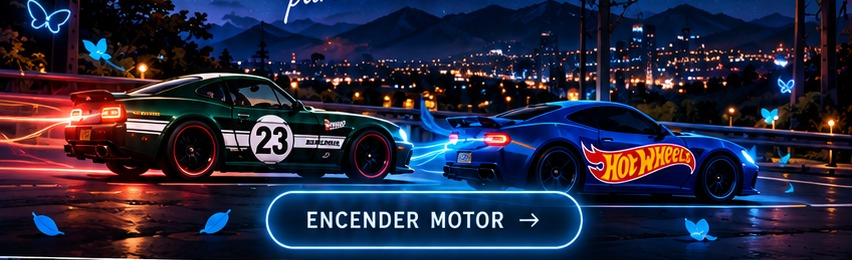
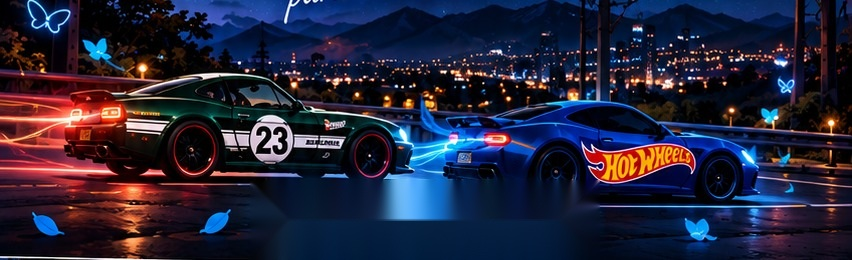
Add files via upload

Changed region(s): [[0.2746, 0.6769, 0.7019, 0.9846]]

diff --git a/index.html b/index.html
@@ -1,34 +1,195 @@
 <!doctype html>
 <html lang="es">
 <head>
-<meta charset="utf-8"><meta name="viewport" content="width=device-width,initial-scale=1,viewport-fit=cover">
-<meta name="theme-color" content="#06101d"><title>30 de septiembre · Hot Wheels</title>
+<meta charset="utf-8">
+<meta name="viewport" content="width=device-width,initial-scale=1,viewport-fit=cover">
+<meta name="theme-color" content="#030a12">
+<title>30 de septiembre · Hot Wheels</title>
 <style>
-:root{--bg:#030a12;--cyan:#6bdcff;--blue:#0c3352;--text:#f5fbff;--muted:#c0d0de;--gold:#d7b45d}
-*{box-sizing:border-box}html{scroll-behavior:smooth}body{margin:0;background:var(--bg);color:var(--text);font-family:Georgia,"Times New Roman",serif;overflow-x:hidden}.scene{min-height:100svh;position:relative;display:grid;place-items:center;overflow:hidden;background:#06101d}.scene-bg{position:absolute;inset:0;width:100%;height:100%;object-fit:cover;object-position:center;filter:saturate(1.05) contrast(1.04)}.shade{position:absolute;inset:0;background:linear-gradient(180deg,#02071055 0%,#02071015 45%,#020710b8 100%)}.content{position:relative;z-index:2;width:min(760px,92%);text-align:center;padding:28px 0}.tag{font:700 .72rem Arial,sans-serif;letter-spacing:.25em;text-transform:uppercase;color:#8ddaff}.title{font-size:clamp(2.5rem,10vw,5.2rem);font-weight:400;line-height:1;margin:15px 0}.copy{font-size:1.08rem;line-height:1.7;color:var(--muted);max-width:570px;margin:0 auto 26px}.btn{border:1px solid #76d8ff;background:#0b3657dd;color:#fff;border-radius:999px;padding:14px 24px;min-height:50px;cursor:pointer;font:inherit;box-shadow:0 0 24px #38caff33;transition:.25s}.btn:hover{transform:translateY(-2px);background:#105079}.scrollhint{margin-top:15px;color:#7fc9eb;font:600 .72rem Arial;letter-spacing:.12em}.scene-nav{position:absolute;z-index:4;bottom:22px;left:50%;transform:translateX(-50%);display:flex;gap:8px}.dot{width:8px;height:8px;border-radius:50%;background:#ffffff55}.dot.active{background:#72dfff;box-shadow:0 0 12px #72dfff}
-#hero .content{align-self:start;margin-top:10vh}.hero-cue{margin-top:22vh}.road-glow{position:absolute;bottom:8%;left:50%;width:70%;height:25%;transform:translateX(-50%);background:radial-gradient(ellipse,#55dfff2a,transparent 70%);pointer-events:none}.km .content{width:min(520px,90%);margin-left:auto;margin-right:4%;text-align:left}.km .copy{margin-left:0}.km-card{display:inline-block;background:#061322c9;border-left:3px solid var(--cyan);padding:12px 18px;border-radius:4px}.km-card strong{font:800 1.1rem Arial}.km-card span{display:block;font:700 .7rem Arial;letter-spacing:.18em;color:#8edcff;margin-top:4px}.km .btn{margin-top:5px}.station .content{max-width:600px}.station-card{background:#04111dcc;border:1px solid #73d8ff44;border-radius:26px;padding:30px 22px;backdrop-filter:blur(5px)}
-#gift{background:radial-gradient(circle at 50% 45%,#123d5d,#030a12 65%)}.gift-layout{display:grid;grid-template-columns:1fr 1fr;gap:20px;align-items:center;text-align:left}.trunk{position:relative;min-height:300px;border-radius:25px;background:linear-gradient(145deg,#06101a,#102a3c);border:1px solid #7cdfff33;overflow:hidden;box-shadow:0 25px 70px #0009}.trunk:before{content:"";position:absolute;inset:0;background:linear-gradient(120deg,transparent 20%,#7adfff12 50%,transparent 80%)}.trunk-label{position:absolute;top:22px;left:22px;font:700 .7rem Arial;letter-spacing:.2em;color:#8edcff}.bouquet{position:absolute;right:0;bottom:0;width:90%;height:72%;object-fit:cover;object-position:left center;mix-blend-mode:screen;opacity:.95}.package-wrap{text-align:center;background:#07121eaa;border:1px solid #ffffff1f;border-radius:25px;padding:18px;box-shadow:0 25px 70px #0008}.package{width:min(100%,330px);display:block;margin:auto;border-radius:8px;box-shadow:0 20px 45px #0009;transition:.8s;transform:scale(.88);opacity:.55}.package.reveal{transform:scale(1);opacity:1}.reveal-text{min-height:28px;color:#a9dfff;margin:12px 0;font-size:.95rem}.model{margin-top:18px;text-align:center}.model h2{font-size:clamp(2rem,8vw,3.6rem);font-weight:400;margin:8px 0}.model p{color:var(--muted);line-height:1.6}.hidden{display:none}.show{display:block;animation:rise .7s ease both}
-#final .content{max-width:700px}.final-title{font-size:clamp(2.4rem,10vw,4.7rem);font-weight:400;line-height:1}.final-car{font-size:5rem;margin:20px 0}.signature{font-style:italic;color:#8ddaff}.restart{margin-top:20px}
-@keyframes rise{from{opacity:0;transform:translateY(20px)}to{opacity:1;transform:none}}@media(max-width:700px){.scene{min-height:100svh}.km .content{margin:0 auto;text-align:center}.km .copy{margin-left:auto}.gift-layout{grid-template-columns:1fr}.trunk{min-height:260px}.package-wrap{padding:12px}.scene-bg{object-position:center}.hero-cue{margin-top:15vh}}
-@media(prefers-reduced-motion:reduce){*{scroll-behavior:auto!important;animation:none!important;transition:none!important}}
+:root{--bg:#030a12;--cyan:#6bdcff;--text:#f5fbff;--muted:#c0d0de;--blue:#0c3352}
+*{box-sizing:border-box}
+html{scroll-behavior:smooth}
+body{margin:0;background:var(--bg);color:var(--text);font-family:Georgia,"Times New Roman",serif;overflow-x:hidden}
+.scene{
+  min-height:100svh;position:relative;display:flex;flex-direction:column;
+  align-items:center;overflow:hidden;background:linear-gradient(#030a12,#061321)
+}
+.scene::before{
+  content:"";position:absolute;inset:0;
+  background:radial-gradient(circle at 50% 70%,#0e4460 0,transparent 48%);
+  opacity:.35;pointer-events:none
+}
+.scene-bg{
+  position:relative;z-index:1;display:block;width:100%;height:auto;
+  max-width:100%;object-fit:contain;object-position:center;
+  margin-top:auto;margin-bottom:0;flex:none;
+  filter:saturate(1.06) contrast(1.03)
+}
+.content{
+  position:relative;z-index:3;width:min(760px,92%);text-align:center;
+  padding:54px 0 24px;margin:auto 0 0
+}
+.top-content{margin:0;padding-top:9vh}
+.tag{font:700 .72rem Arial,sans-serif;letter-spacing:.25em;text-transform:uppercase;color:#8ddaff}
+.title{font-size:clamp(2.35rem,10vw,5rem);font-weight:400;line-height:1.03;margin:15px 0}
+.copy{font-size:1.06rem;line-height:1.7;color:var(--muted);max-width:570px;margin:0 auto 25px}
+.btn{
+ border:1px solid #76d8ff;background:#0b3657;color:#fff;border-radius:999px;
+ padding:14px 24px;min-height:50px;cursor:pointer;font:inherit;
+ box-shadow:0 0 24px #38caff33;transition:.25s
+}
+.btn:hover{transform:translateY(-2px);background:#105079}
+.scene-spacer{height:8vh;flex:none}
+#hero .scene-bg{margin-top:auto}
+#hero .content{margin-top:0}
+.km .content{padding-top:7vh}
+.km-card{display:inline-block;background:#061322e8;border-left:3px solid var(--cyan);padding:12px 18px;border-radius:4px}
+.km-card strong{font:800 1.05rem Arial}.km-card span{display:block;font:700 .68rem Arial;letter-spacing:.18em;color:#8edcff;margin-top:4px}
+.km .title{font-size:clamp(2.1rem,9vw,4.3rem)}
+.km .scene-bg{margin-top:auto}
+.station .content{padding-top:8vh}
+.station-card{background:#04111de8;border:1px solid #73d8ff44;border-radius:26px;padding:30px 22px;backdrop-filter:blur(5px)}
+.station .scene-bg{margin-top:auto}
+#gift{background:radial-gradient(circle at 50% 42%,#123d5d,#030a12 68%)}
+.gift-wrap{width:min(760px,94%);text-align:center;padding:8vh 0 7vh}
+.gift-layout{display:grid;grid-template-columns:1fr 1fr;gap:20px;align-items:center;margin-top:30px}
+.trunk{
+ position:relative;min-height:330px;border-radius:25px;background:linear-gradient(145deg,#06101a,#102a3c);
+ border:1px solid #7cdfff33;overflow:hidden;box-shadow:0 25px 70px #0009;padding:20px
+}
+.trunk-label{font:700 .7rem Arial;letter-spacing:.2em;color:#8edcff;text-align:left}
+.bouquet{
+ display:block;width:100%;height:auto;margin:15px auto 0;
+ border-radius:18px;box-shadow:0 15px 35px #0008
+}
+.package-wrap{
+ text-align:center;background:#07121eaa;border:1px solid #ffffff1f;border-radius:25px;
+ padding:18px;box-shadow:0 25px 70px #0008
+}
+.package{width:min(100%,330px);display:block;margin:auto;border-radius:8px;box-shadow:0 20px 45px #0009;transition:.7s;transform:scale(.94);opacity:.78}
+.package.reveal{transform:scale(1);opacity:1}
+.reveal-text{min-height:28px;color:#a9dfff;margin:12px 0;font-size:.95rem}
+.model{margin-top:28px;text-align:center}.model h2{font-size:clamp(2rem,8vw,3.6rem);font-weight:400;margin:8px 0}.model p{color:var(--muted);line-height:1.6}
+.hidden{display:none}.show{display:block;animation:rise .7s ease both}
+#final .content{padding-top:9vh}.final-title{font-size:clamp(2.4rem,10vw,4.7rem);font-weight:400;line-height:1.03}.final-car{font-size:5rem;margin:18px 0}.signature{font-style:italic;color:#8ddaff}
+.music-toggle{
+ position:fixed;right:14px;bottom:14px;z-index:999;min-height:44px;padding:10px 15px;
+ border:1px solid rgba(142,211,255,.65);border-radius:999px;background:rgba(5,22,38,.92);
+ color:#e6f6ff;font:600 14px Arial,sans-serif;box-shadow:0 8px 24px #0006;cursor:pointer
+}.music-toggle.playing{background:#15506f}
+@keyframes rise{from{opacity:0;transform:translateY(20px)}to{opacity:1;transform:none}}
+@media(max-width:700px){
+ .content{width:92%;padding-top:45px}
+ .top-content{padding-top:9vh}
+ .scene-bg{width:100%;height:auto}
+ .gift-layout{grid-template-columns:1fr}
+ .trunk{min-height:0}
+ .package-wrap{padding:14px}
+ .km .content,.station .content{padding-top:6vh}
+}
+@media(prefers-reduced-motion:reduce){*{scroll-behavior:auto!important;transition:none!important;animation:none!important}}
 </style>
-<style>
-.music-toggle{position:fixed;right:16px;bottom:16px;z-index:999;min-height:44px;padding:10px 15px;border:1px solid rgba(142,211,255,.65);border-radius:999px;background:rgba(5,22,38,.9);color:#e6f6ff;font:600 14px Arial,sans-serif;box-shadow:0 8px 24px rgba(0,0,0,.35);backdrop-filter:blur(8px);cursor:pointer}.music-toggle.playing{background:rgba(21,72,105,.95)}@media(max-width:500px){.music-toggle{right:12px;bottom:12px;font-size:13px}}
-</style></head>
+</head>
 <body>
-<button id="musicToggle" class="music-toggle" type="button" aria-label="Reproducir música">♪ Música</button>
+<button id="musicToggle" class="music-toggle" type="button">♪ Música</button>
 <audio id="bgMusic" preload="auto" loop><source src="as-it-was.mp3" type="audio/mpeg"></audio>
+
 <section class="scene" id="hero">
-<img class="scene-bg" src="hero.jpg" alt="Carretera nocturna con un Datsun 240Z verde y un auto azul"><div class="shade"></div><div class="road-glow"></div>
-<div class="content"><div class="tag">30 de septiembre</div><h1 class="title">¿Listo para dar una vuelta?</h1><p class="copy">Esta vez, el recorrido es para ti.</p><button class="btn" onclick="go('km1')">Encender motor →</button></div>
+  <div class="content top-content">
+    <div class="tag">30 de septiembre</div>
+    <h1 class="title">¿Listo para dar una vuelta?</h1>
+    <p class="copy">Esta vez, el recorrido es para ti.</p>
+    <button class="btn" onclick="go('km1')">Encender motor →</button>
+  </div>
+  <img class="scene-bg" src="hero.jpg" alt="Datsun 240Z verde y auto azul en una carretera nocturna">
 </section>
-<section class="scene km" id="km1"><img class="scene-bg" src="km1.jpg" alt="Datsun 240Z verde y auto azul en carretera nocturna"><div class="shade"></div><div class="content"><div class="km-card"><strong>KILÓMETRO 01</strong><span>EL COMIENZO</span></div><h2 class="title">Cuando comenzaste a formar parte de mi historia.</h2><p class="copy">Sin hacer demasiado ruido, terminaste ocupando un lugar que se siente muy bonito.</p><button class="btn" onclick="go('km2')">Seguir →</button></div></section>
-<section class="scene km" id="km2"><img class="scene-bg" src="km2.jpg" alt="Dos autos recorriendo una carretera iluminada"><div class="shade"></div><div class="content"><div class="km-card"><strong>KILÓMETRO 02</strong><span>LOS PEQUEÑOS MOMENTOS</span></div><h2 class="title">Las pequeñas cosas también cuentan.</h2><p class="copy">Las conversaciones, las risas, los cambios de turno y todas esas pequeñas cosas que hacen este camino más especial.</p><button class="btn" onclick="go('km3')">Seguir →</button></div></section>
-<section class="scene km" id="km3"><img class="scene-bg" src="km3.jpg" alt="Dos autos en una carretera junto al mar al atardecer"><div class="shade"></div><div class="content"><div class="km-card"><strong>KILÓMETRO 03</strong><span>LO QUE SIGUE</span></div><h2 class="title">Y todavía queda mucho camino.</h2><p class="copy">Porque contigo hasta los caminos largos se sienten más ligeros.</p><button class="btn" onclick="go('station')">Siguiente parada →</button></div></section>
-<section class="scene station" id="station"><img class="scene-bg" src="station.jpg" alt="Datsun 240Z verde y auto azul estacionados en una gasolinera nocturna"><div class="shade"></div><div class="content"><div class="station-card"><div class="tag">Parada especial</div><h2 class="title">Haz una pausa.</h2><p class="copy">Hay momentos en el camino que vale la pena detenerse a disfrutar.</p><button class="btn" onclick="go('gift')">Continuar →</button></div></div></section>
-<section class="scene" id="gift"><div class="content"><div class="tag">Hay algo en la cajuela...</div><h1 class="title">Una última parada</h1><p class="copy">Toca el regalo para descubrirlo.</p><div class="gift-layout"><div class="trunk"><div class="trunk-label">PARA TI</div><img class="bouquet" src="bouquet.jpg" alt="Ramo de flores azules"></div><div class="package-wrap"><img class="package" id="pkg" src="datsun_package.jpg" alt="Hot Wheels Datsun 240Z verde número 23"><div class="reveal-text" id="hint">El regalo está esperando...</div><button class="btn" id="openBtn">Abrir regalo →</button></div></div><div class="model hidden" id="model"><div class="tag">El modelo elegido</div><h2>Datsun 240Z</h2><p>Porque si había un coche que tenía que estar aquí, era este. 🏎</p><button class="btn" onclick="go('final')">Última parada →</button></div></div></section>
-<section class="scene" id="final"><img class="scene-bg" src="final.jpg" alt="Datsun 240Z verde y auto azul frente a las luces de la ciudad"><div class="shade"></div><div class="content"><div class="tag">Para ti</div><h1 class="final-title">Feliz día de los Hot Wheels</h1><div class="final-car">🏎💙</div><p class="copy">Porque algunas personas llegan a tu vida y hacen que el recorrido se vuelva mucho más divertido.<br><br>Y si vamos a seguir dando vueltas, espero que sean muchas.</p><div class="signature">Con cariño 💙</div><button class="btn restart" onclick="go('hero')">Volver a dar una vuelta ↻</button></div></section>
-<script>function go(id){document.getElementById(id)?.scrollIntoView({behavior:'smooth',block:'start'})}const b=document.getElementById('openBtn'),p=document.getElementById('pkg'),h=document.getElementById('hint'),m=document.getElementById('model');b.addEventListener('click',()=>{p.classList.add('reveal');h.textContent='Sabía que este tenía que ser...';b.style.display='none';setTimeout(()=>m.classList.remove('hidden'),500)});</script>
+
+<section class="scene km" id="km1">
+  <div class="content">
+    <div class="km-card"><strong>KILÓMETRO 01</strong><span>EL COMIENZO</span></div>
+    <h2 class="title">Cuando comenzaste a formar parte de mi historia.</h2>
+    <p class="copy">Sin hacer demasiado ruido, terminaste ocupando un lugar que se siente muy bonito.</p>
+    <button class="btn" onclick="go('km2')">Seguir →</button>
+  </div>
+  <img class="scene-bg" src="km1.jpg" alt="Datsun 240Z verde y auto azul recorriendo la ciudad">
+</section>
+
+<section class="scene km" id="km2">
+  <div class="content">
+    <div class="km-card"><strong>KILÓMETRO 02</strong><span>LOS PEQUEÑOS MOMENTOS</span></div>
+    <h2 class="title">Las pequeñas cosas también cuentan.</h2>
+    <p class="copy">Las conversaciones, las risas, los cambios de turno y todas esas pequeñas cosas que hacen este camino más especial.</p>
+    <button class="btn" onclick="go('km3')">Seguir →</button>
+  </div>
+  <img class="scene-bg" src="km2.jpg" alt="Datsun 240Z verde y auto azul en una carretera iluminada">
+</section>
+
+<section class="scene km" id="km3">
+  <div class="content">
+    <div class="km-card"><strong>KILÓMETRO 03</strong><span>LO QUE SIGUE</span></div>
+    <h2 class="title">Y todavía queda mucho camino.</h2>
+    <p class="copy">Porque contigo hasta los caminos largos se sienten más ligeros.</p>
+    <button class="btn" onclick="go('station')">Siguiente parada →</button>
+  </div>
+  <img class="scene-bg" src="km3.jpg" alt="Datsun 240Z verde y auto azul junto al mar al atardecer">
+</section>
+
+<section class="scene station" id="station">
+  <div class="content">
+    <div class="station-card">
+      <div class="tag">Parada especial</div>
+      <h2 class="title">Haz una pausa.</h2>
+      <p class="copy">Hay momentos en el camino que vale la pena detenerse a disfrutar.</p>
+      <button class="btn" onclick="go('gift')">Continuar →</button>
+    </div>
+  </div>
+  <img class="scene-bg" src="station.jpg" alt="Datsun 240Z verde y auto azul estacionados de noche">
+</section>
+
+<section class="scene" id="gift">
+  <div class="gift-wrap">
+    <div class="tag">Hay algo en la cajuela...</div>
+    <h1 class="title">Una última parada</h1>
+    <p class="copy">Toca el regalo para descubrirlo.</p>
+
+    <div class="gift-layout">
+      <div class="trunk">
+        <div class="trunk-label">PARA TI</div>
+        <img class="bouquet" src="bouquet.jpg" alt="Ramo de flores azules">
+      </div>
+      <div class="package-wrap">
+        <img class="package" id="pkg" src="datsun_package.jpg" alt="Hot Wheels Datsun 240Z verde número 23">
+        <div class="reveal-text" id="hint">El regalo está esperando...</div>
+        <button class="btn" id="openBtn">Abrir regalo →</button>
+      </div>
+    </div>
+
+    <div class="model hidden" id="model">
+      <div class="tag">El modelo elegido</div>
+      <h2>Datsun 240Z</h2>
+      <p>Porque si había un coche que tenía que estar aquí, era este. 🏎</p>
+      <button class="btn" onclick="go('final')">Última parada →</button>
+    </div>
+  </div>
+</section>
+
+<section class="scene" id="final">
+  <div class="content">
+    <div class="tag">Para ti</div>
+    <h1 class="final-title">Feliz día de los Hot Wheels</h1>
+    <div class="final-car">🏎💙</div>
+    <p class="copy">Porque algunas personas llegan a tu vida y hacen que el recorrido se vuelva mucho más divertido.<br><br>Y si vamos a seguir dando vueltas, espero que sean muchas.</p>
+    <div class="signature">Con cariño 💙</div>
+    <button class="btn" onclick="go('hero')">Volver a dar una vuelta ↻</button>
+  </div>
+  <img class="scene-bg" src="final.jpg" alt="Datsun 240Z verde y auto azul frente a las luces de la ciudad">
+</section>
+
+<script>
+function go(id){document.getElementById(id)?.scrollIntoView({behavior:"smooth",block:"start"})}
+const b=document.getElementById('openBtn'),p=document.getElementById('pkg'),h=document.getElementById('hint'),m=document.getElementById('model');
+b.addEventListener('click',()=>{p.classList.add('reveal');h.textContent='Sabía que este tenía que ser...';b.style.display='none';setTimeout(()=>m.classList.remove('hidden'),500)});
+</script>
 <script>
 (()=>{const m=document.getElementById("bgMusic"),b=document.getElementById("musicToggle");if(!m||!b)return;
 const on=()=>{b.textContent="❚❚ Música";b.classList.add("playing")},off=()=>{b.textContent="♪ Música";b.classList.remove("playing")};
@@ -38,4 +199,6 @@ const unlock=async()=>{if(m.paused)await play();if(!m.paused){removeEventListene
 addEventListener("pointerdown",unlock,{passive:true});addEventListener("touchstart",unlock,{passive:true});addEventListener("keydown",unlock);
 b.addEventListener("click",async e=>{e.stopPropagation();if(m.paused)await play();else{m.pause();off()}});
 m.addEventListener("play",on);m.addEventListener("pause",off)})();
-</script></body></html>
+</script>
+</body>
+</html>
